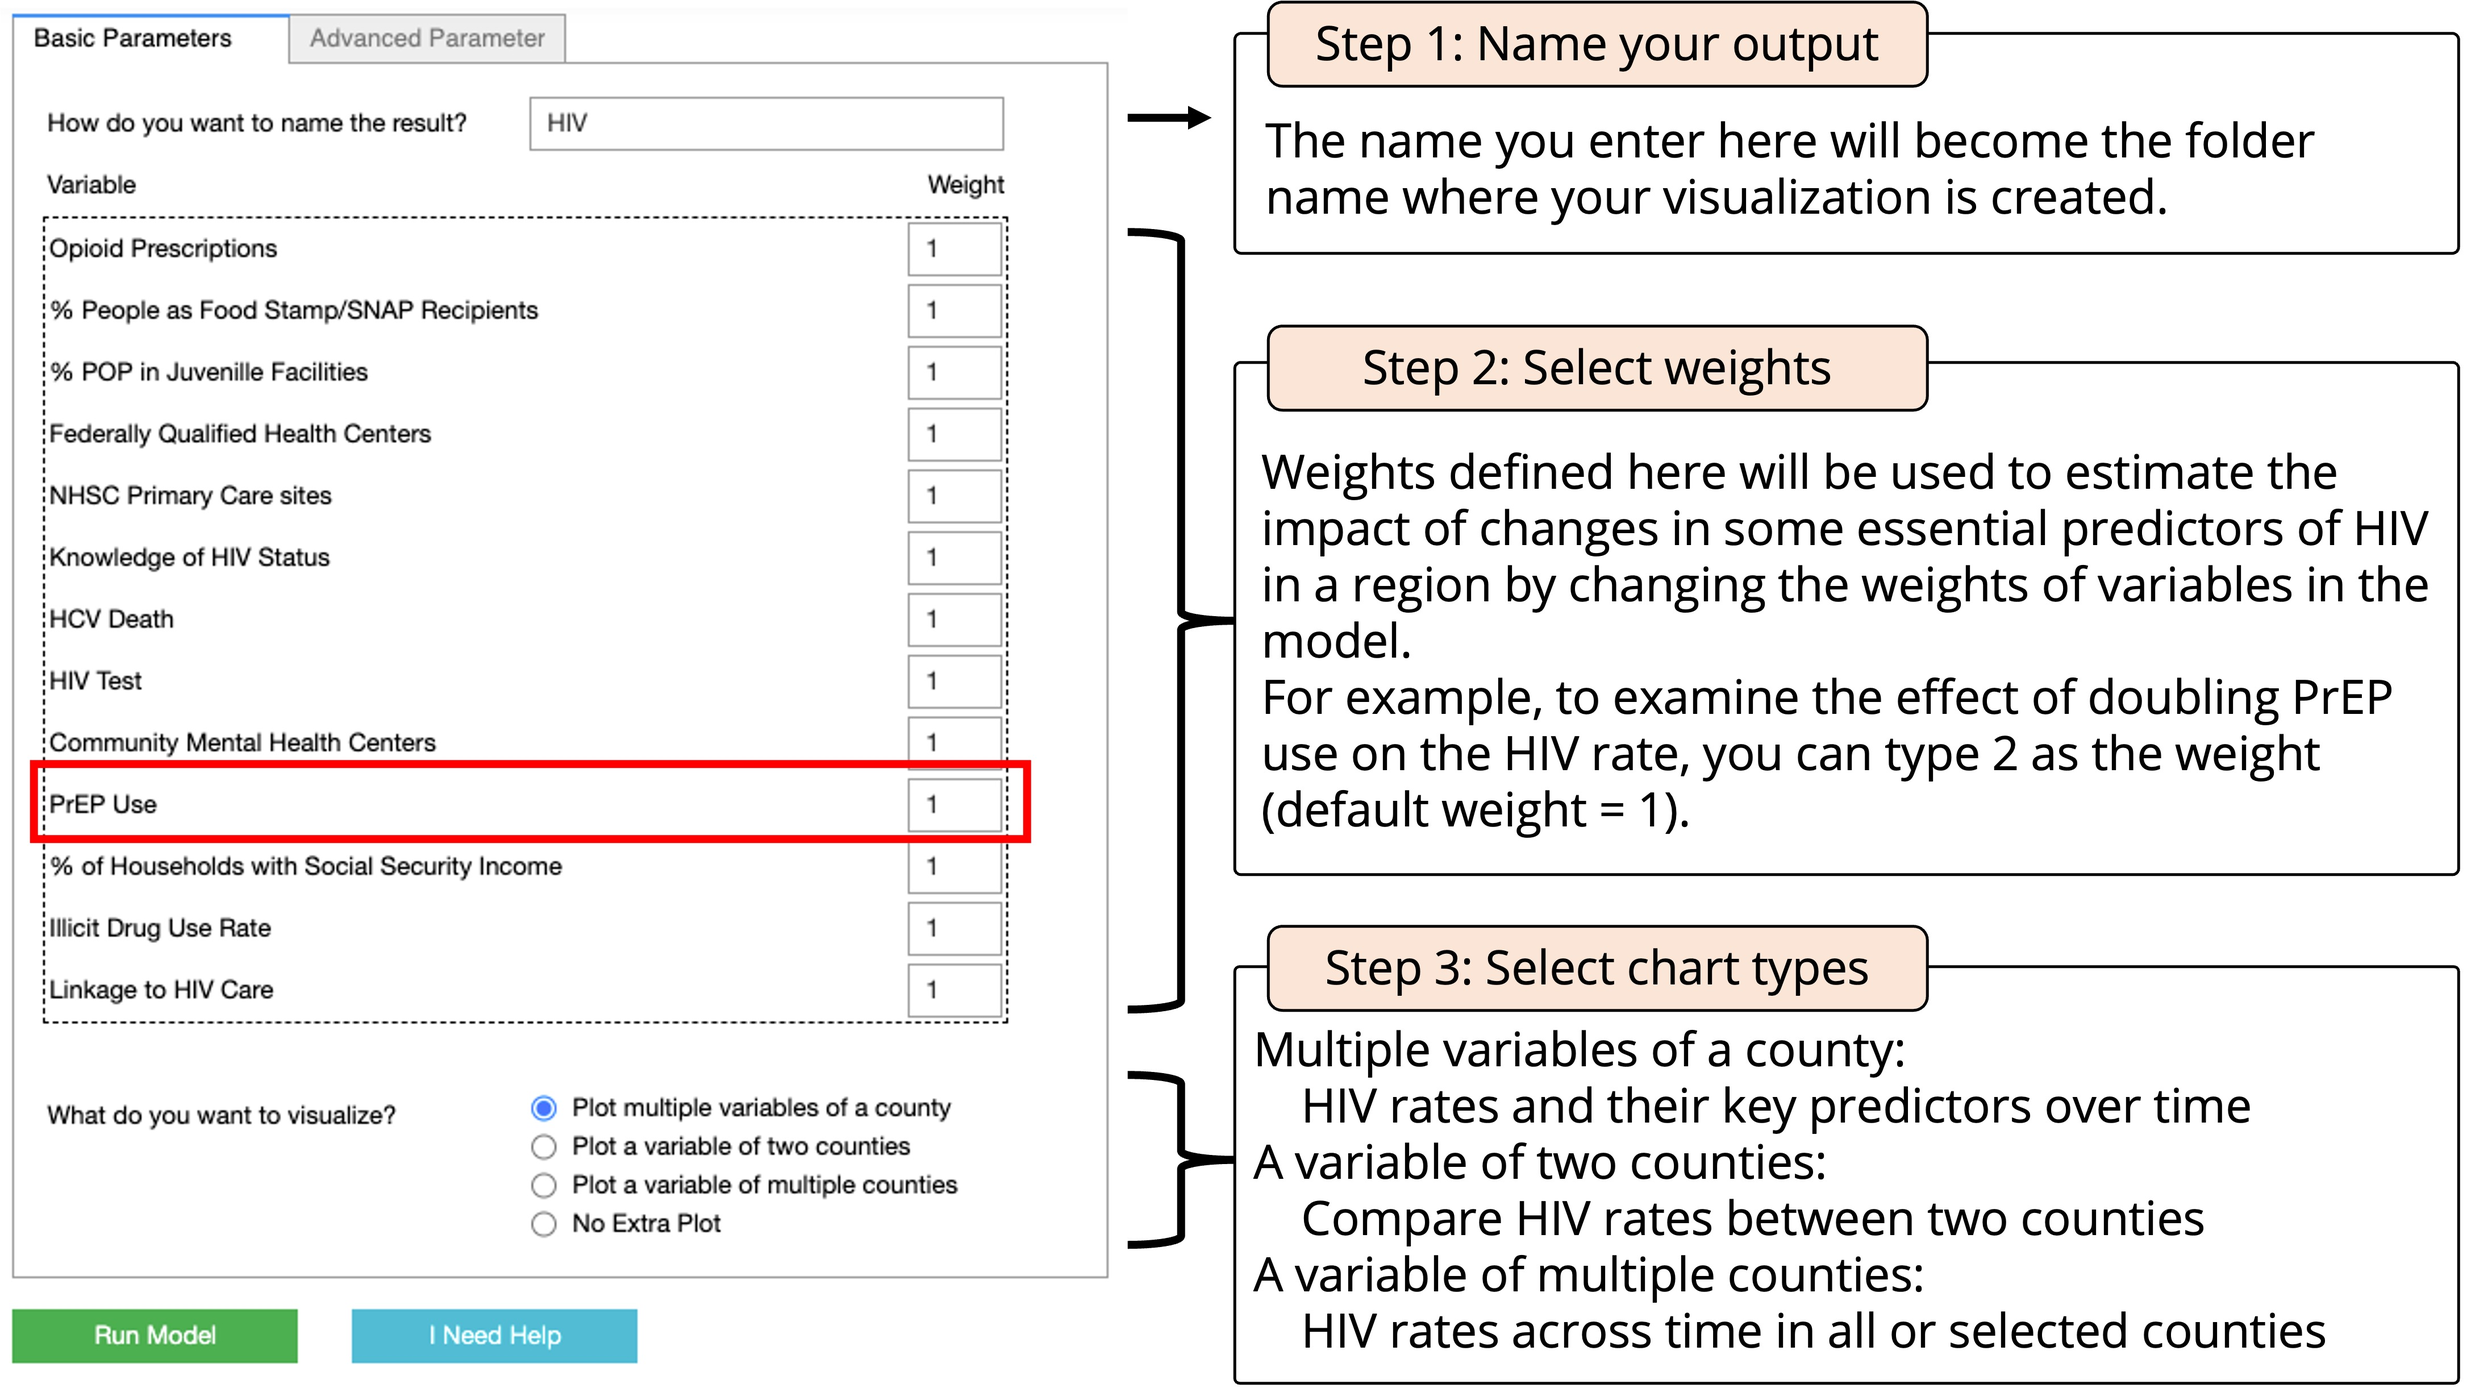
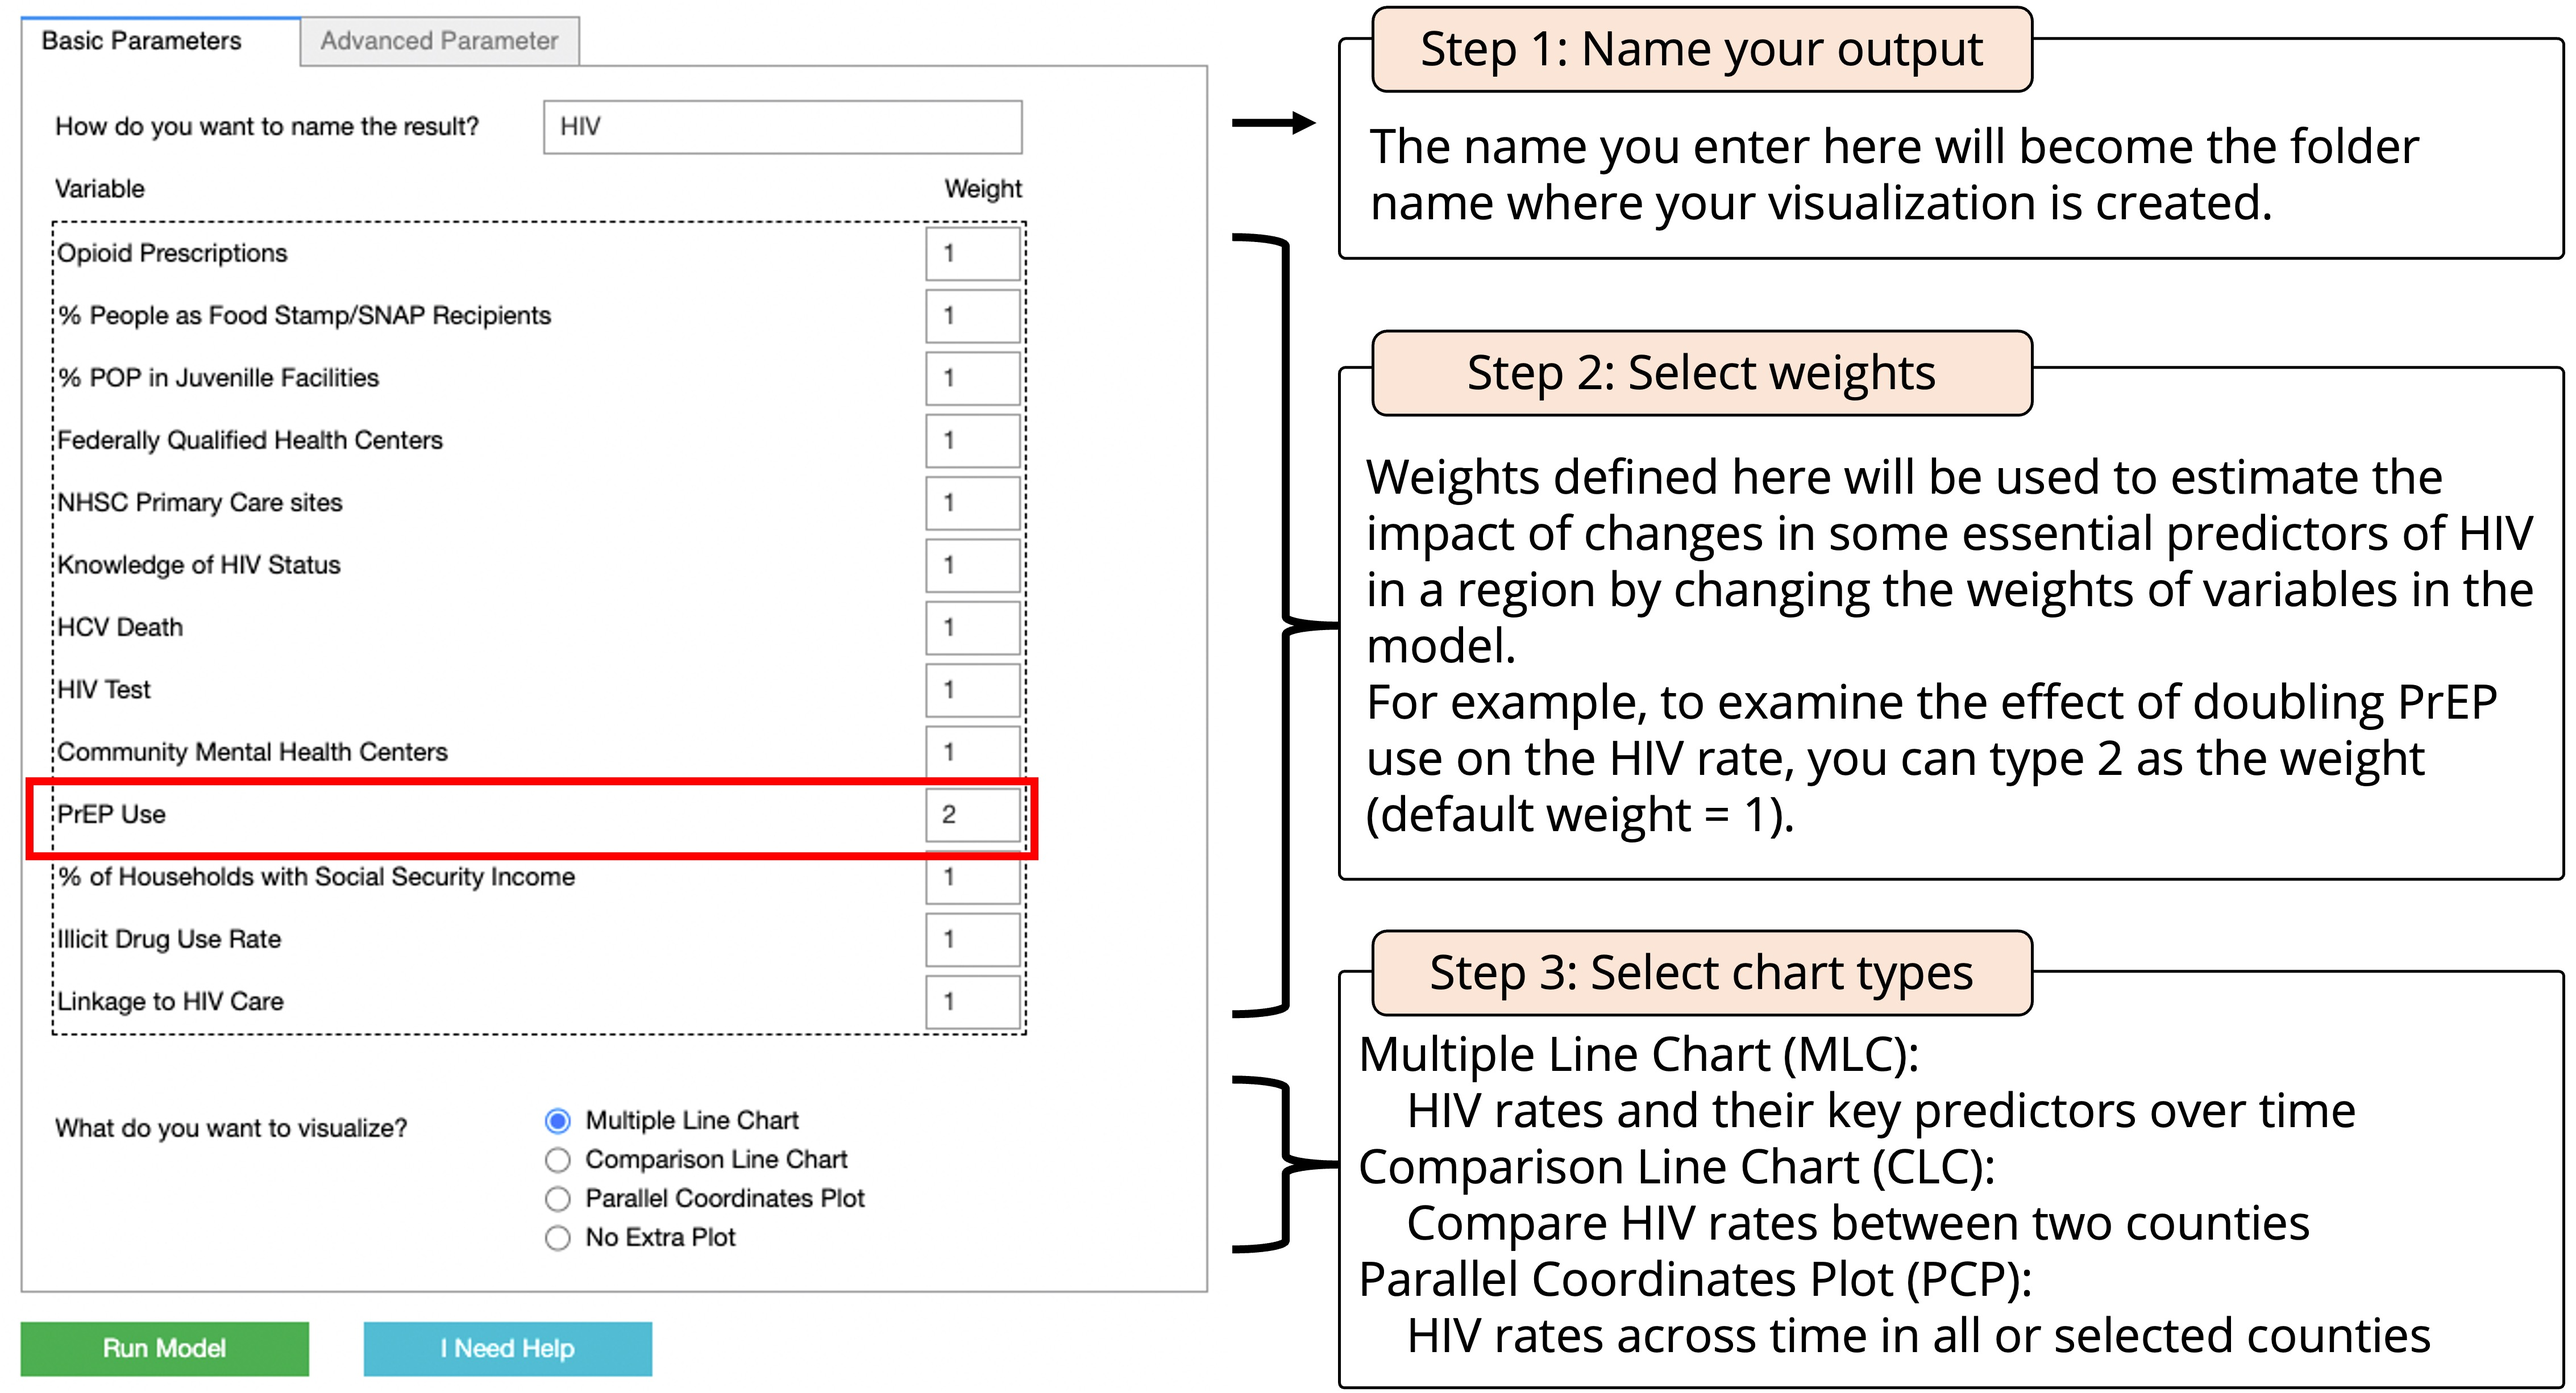
Reverse image change

diff --git a/Scenario_Analysis_Mapper.py b/Scenario_Analysis_Mapper.py
@@ -482,8 +482,8 @@ def Display_GUI():
         Label(value=""),
         
         Box([Label(value='What do you want to visualize?', layout=Layout(width="300px")), 
-            RadioButtons(options=['Plot multiple variables of a county', "Plot a variable of two counties", 
-                                  "Plot a variable of multiple counties", "No Extra Plot"])],
+            RadioButtons(options=["Multiple Line Chart", "Comparison Line Chart", "Parallel Coordinates Plot", 
+                                  "No Extra Plot"])],
             layout=form_item_layout),
     ])
 
